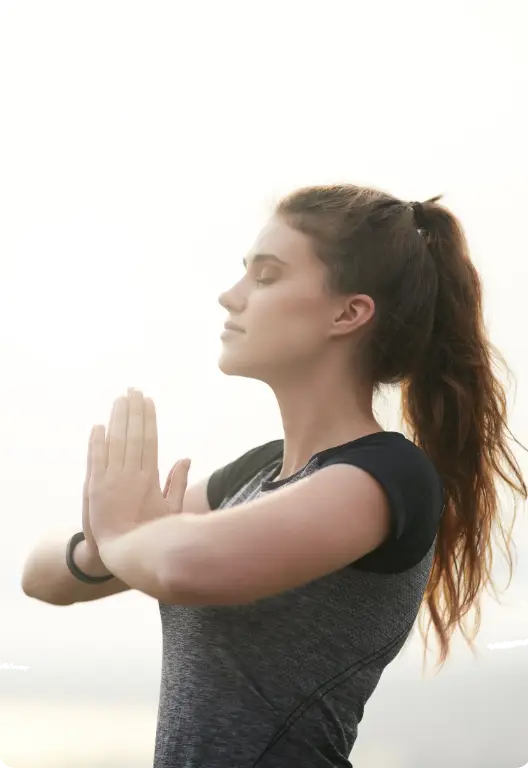
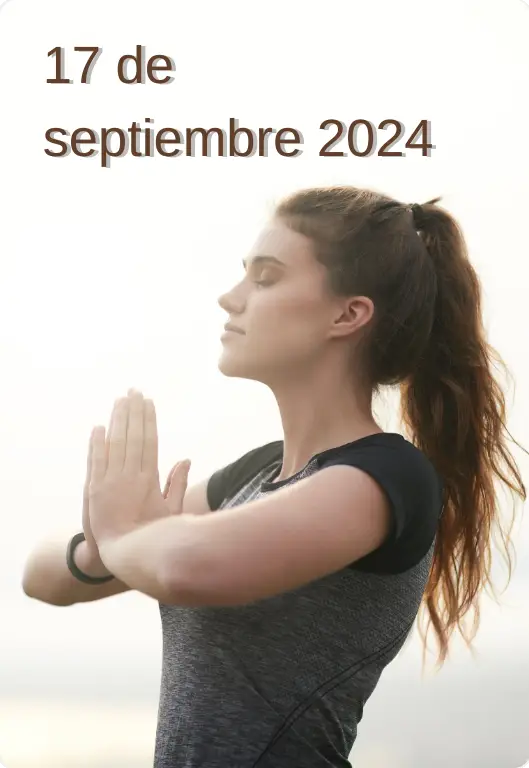
feat (Workshops): update data and images

diff --git a/data/workshops.js b/data/workshops.js
@@ -1,38 +1,48 @@
 const textWorkshop1 = `
-  Quiero invitarlas a un evento único y transformador para cerrar agosto. Un espacio diseñado para nosotras, donde podremos enfocarnos en el amor propio y la autoestima.
+  Asiste a un evento único y transformador para cerrar Septiembre. Un espacio diseñado para ti, que estás enfocada en crecer tu amor propio y la autoestima, con un giro inesperado. Te enseñaremos a usar tu ropa como herramienta para anclar ese amor propio, autoestima y seguridad que necesitas. 
 
   ### Esto es lo que haremos:
 
-  * Recepción Self Love: Reconozcámonos en la incomodidad y descubramos el poder de amarnos a nosotras mismas, incluso en los momentos más desafiantes.
-  * Arcoíris Interno: Aprenderemos cómo los colores pueden influir y transformar nuestras emociones.
-  * Meditación del Color: Una práctica guiada para elevar nuestra energía y conectarnos con nuestro yo interior.
-  * Sound Healing: Nos relajaremos y renovaremos nuestro espíritu a través de la sanación con sonido.
+  * Recepción Self Love: Reconócete en la incomodidad y descubre el poder de amarte a ti misma, incluso en los momentos más desafiantes.
+  * Intenciona tus prendas: Poner intenciones en tus prendas pueden ser herramientas para aumentar tu autoestima y seguridad, no sólo te ayudan a verte bien, aprende a intencionarlas.
+  * Sound Healing: Te relajaremos y renovaremos desde el interior hasta tu espíritu a través de la sanación con sonido.
 
   ### Detalles del Evento:
 
   * Hora: 9:00 am - 12:00 pm
-  * Lugar: Shaman, Av. Tamaulipas #136, Condesa
-  * Cupo Limitado: Solo 10 tickets disponibles
+  * Lugar: Apartando tu ticket
+  * Cupo Limitado: Solo 12 tickets disponibles
+
 `
 
 const textWorkshop2 = `
   ### Módulo 1: Amor Propio - El Primer Paso
+  
   * ¿Qué es el amor propio? ¿Y por qué es tan importante?
   * Aprende a aumentar tu autoestima y sentirte bien contigo mismo.
 
   ### Módulo 2: El Síndrome del Impostor
+
   * ¿Qué es el síndrome del impostor?
   * Cómo te limita en tu vida personal y profesional.
   * Aprende a vencerlo y sentirte seguro de tus logros.
 
   ### Módulo 3: Imagen Personal - Cómo te Ves te Tratan y te Tratas
+
   * La imagen personal y por qué es más que solo apariencia.
   * Lo que compone tu imagen y ¿Cómo te presentas al mundo?
 
   ### Módulo 4: Creencias Limitantes - Supera lo que Te Detiene a verte como siempre has querido
+
   * Identifica tus creencias limitantes sobre tu imagen
   * Cómo estas creencias afectan cómo te ves a ti mismo.
   * Cambia esas creencias y empieza a verte de manera más positiva y poderosa.
+  
+  ### Detalles del Evento:
+
+  * Fecha: 17 de Septiembre 2024
+  * Hora: 20:00 - 21:00 hrs
+  * Modalidad Online
 
 `
 
